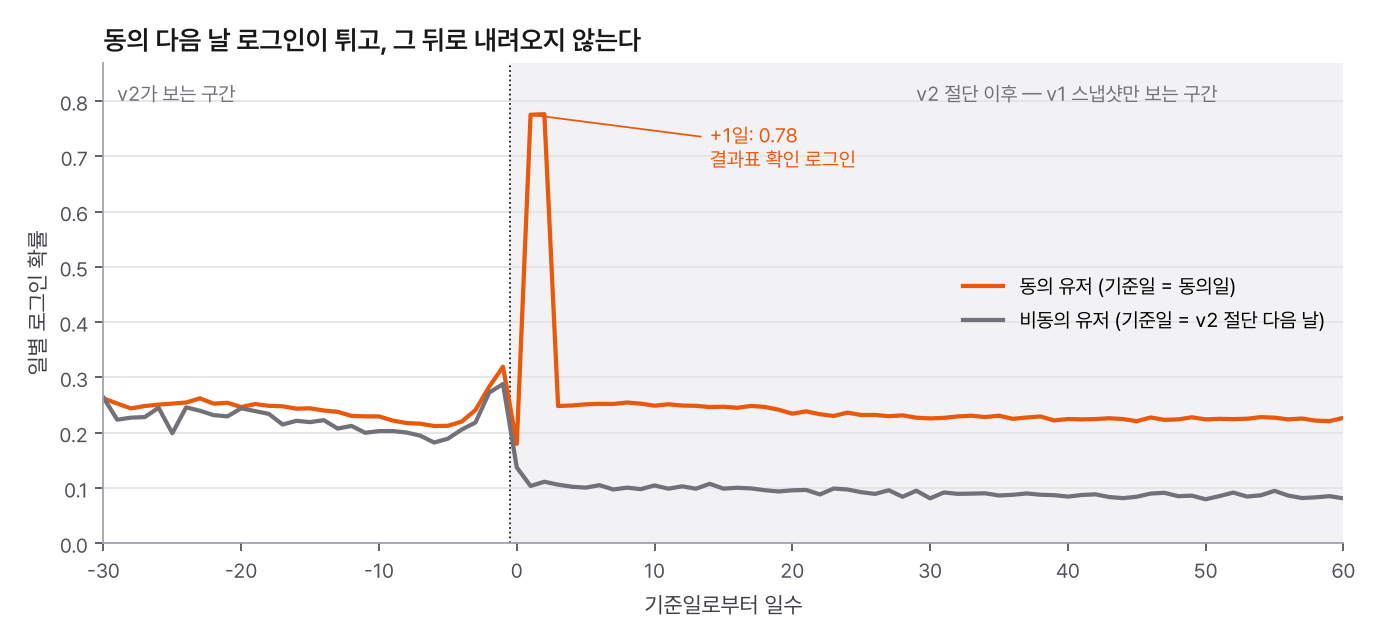
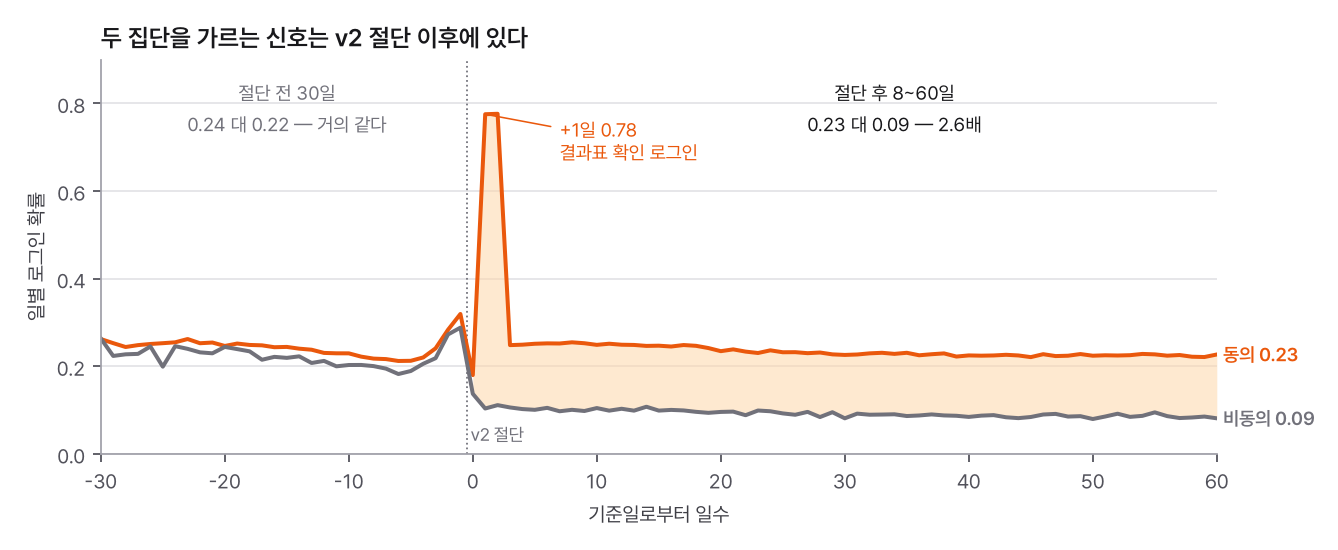
loyal-user-prediction-jobplatform: 5호 그림 fig7·fig10 수정

diff --git a/loyal-user-prediction-jobplatform/notebooks/10_site_figures_2.py b/loyal-user-prediction-jobplatform/notebooks/10_site_figures_2.py
@@ -16,7 +16,7 @@ from matplotlib.patches import Patch
 
 sys.path.insert(0, str(Path(__file__).resolve().parent))
 from common import RES
-from sitestyle import setup, save, BLUE, ORANGE, GRAY, LIGHT, DARK, MUTED
+from sitestyle import setup, save, BLUE, ORANGE, GRAY, LIGHT, LIGHT_ORANGE, DARK, MUTED
 GRAY_LINE = MUTED  # #a1a1aa fails 3:1 on white for thin lines; bars keep GRAY
 
 setup()
@@ -24,23 +24,34 @@ summary = pd.read_csv(RES / "leakage_anatomy_summary.csv").set_index("metric")["
 
 # ---------------------------------------------------------------- fig7 login rate around the anchor
 ev = pd.read_csv(RES / "login_around_consent.csv")
-fig, ax = plt.subplots(figsize=(10, 3.9))
-ax.axvspan(-0.5, ev["rel_day"].max(), color=LIGHT, alpha=0.45, lw=0)
-ax.axvline(-0.5, color=DARK, lw=0.8, ls=":")
-ax.plot(ev["rel_day"], ev["consented_rate"], color=ORANGE, lw=1.9, label="동의 유저 (기준일 = 동의일)")
-ax.plot(ev["rel_day"], ev["not_consented_rate"], color=GRAY_LINE, lw=1.9, label="비동의 유저 (기준일 = v2 절단 다음 날)")
-top = ev[["consented_rate", "not_consented_rate"]].values.max()
-d1 = float(ev.loc[ev["rel_day"] == 1, "consented_rate"].iloc[0])
-ax.annotate(f"+1일: {d1:.2f}\n결과표 확인 로그인", xy=(1, d1), xytext=(14, d1 * 0.98), fontsize=9, color=ORANGE,
-            va="top", arrowprops=dict(arrowstyle="-", color=ORANGE, lw=0.8))
-ax.text(-29, top * 1.02, "v2가 보는 구간", color=MUTED, fontsize=9, va="bottom")
-ax.text(29, top * 1.02, "v2 절단 이후 — v1 스냅샷만 보는 구간", color=MUTED, fontsize=9, va="bottom", ha="left")
+x, yc, yn = ev["rel_day"].to_numpy(), ev["consented_rate"].to_numpy(), ev["not_consented_rate"].to_numpy()
+d1 = float(summary["consented: login rate on day +1"])
+pre_c = float(summary["consented: mean daily login rate, day -30..-1"])
+pre_n = float(summary["not_consented: mean daily login rate, day -30..-1"])
+post_c = float(summary["consented: mean daily login rate, day +8..+60"])
+post_n = float(summary["not_consented: mean daily login rate, day +8..+60"])
+ratio = float(summary["ratio consented / not_consented: mean daily login rate, day +8..+60"])
+fig, ax = plt.subplots(figsize=(9, 3.2))
+ax.axvline(-0.5, color=MUTED, lw=0.8, ls=":")
+post = x >= 0
+ax.fill_between(x[post], yn[post], yc[post], color=LIGHT_ORANGE, alpha=0.55, lw=0)  # 절단 이후 두 집단의 격차
+ax.plot(x, yc, color=ORANGE, lw=1.8)
+ax.plot(x, yn, color=GRAY_LINE, lw=1.8)
+ax.annotate(f"+1일 {d1:.2f}\n결과표 확인 로그인", xy=(1, d1), xytext=(7, d1 - 0.01), fontsize=8.5,
+            color=ORANGE, va="top", arrowprops=dict(arrowstyle="-", color=ORANGE, lw=0.7))
+ax.text(-15, 0.86, f"절단 전 30일\n{pre_c:.2f} 대 {pre_n:.2f} — 거의 같다", color=MUTED, fontsize=8.5,
+        ha="center", va="top", linespacing=1.4)
+ax.text(34, 0.86, f"절단 후 8~60일\n{post_c:.2f} 대 {post_n:.2f} — {ratio:.1f}배", color=DARK,
+        fontsize=8.5, ha="center", va="top", linespacing=1.4)
+ax.text(60.5, yc[-1], f"동의 {post_c:.2f}", color=ORANGE, fontsize=8.5, va="center", fontweight="semibold")
+ax.text(60.5, yn[-1], f"비동의 {post_n:.2f}", color=GRAY_LINE, fontsize=8.5, va="center", fontweight="semibold")
+ax.text(-0.5, 0.02, " v2 절단 ", color=MUTED, fontsize=8, ha="left", va="bottom")
 ax.set_xlim(-30, 60)
-ax.set_ylim(0, top * 1.12)
-ax.set_xlabel("기준일로부터 일수")
-ax.set_ylabel("일별 로그인 확률")
-ax.set_title("동의 다음 날 로그인이 튀고, 그 뒤로 내려오지 않는다")
-ax.legend(loc="center right")
+ax.set_ylim(0, 0.9)
+ax.set_yticks([0, 0.2, 0.4, 0.6, 0.8])
+ax.set_xlabel("기준일로부터 일수", fontsize=9)
+ax.set_ylabel("일별 로그인 확률", fontsize=9)
+ax.set_title("두 집단을 가르는 신호는 v2 절단 이후에 있다", fontsize=11)
 ax.grid(axis="y")
 save(fig, "fig7_login_around_consent")
 
@@ -111,21 +122,36 @@ save(fig, "fig9_timeline_sample")
 # ---------------------------------------------------------------- fig10 ROC
 roc = pd.read_csv(RES / "roc_curves.csv")
 auc = pd.read_csv(RES / "oof_auc_vs_oracle.csv").set_index("model")["AUC"]
-fig, ax = plt.subplots(figsize=(5.6, 5.4))
+SERIES = [("v1 snapshot", GRAY_LINE, "-", "v1 스냅샷"),
+          ("v2 time cut", BLUE, "-", "v2 시간 절단"),
+          ("oracle (true propensity)", ORANGE, "--", "심어둔 정답 확률")]
+fig = plt.figure(figsize=(9, 3.9))  # 정사각 ROC를 왼쪽에, 범례·결론을 오른쪽에 — 본문 폭에서 높이를 억제
+ax = fig.add_axes([0.07, 0.14, 0.42, 0.76])
 ax.plot([0, 1], [0, 1], color=LIGHT, lw=1)
-for label, c, ls, kor in [("v1 snapshot", GRAY_LINE, "-", "v1 스냅샷"),
-                          ("v2 time cut", BLUE, "-", "v2 시간 절단"),
-                          ("oracle (true propensity)", ORANGE, "--", "심어둔 정답 확률")]:
+for label, c, ls, kor in SERIES:
     d = roc[roc["model"] == label]
-    ax.plot(d["fpr"], d["tpr"], color=c, ls=ls, lw=1.9, label=f"{kor}   AUC {auc[label]:.3f}")
+    ax.plot(d["fpr"], d["tpr"], color=c, ls=ls, lw=1.9)
 ax.set_xlim(0, 1)
 ax.set_ylim(0, 1)
 ax.set_aspect("equal")
 ax.set_xlabel("위양성률 (FPR)")
 ax.set_ylabel("재현율 (TPR)")
 ax.set_title("ROC — v1은 정답보다 위에 있다")
-ax.legend(loc="lower right")
 ax.grid()
+tx = fig.add_axes([0.56, 0.14, 0.42, 0.76])
+tx.axis("off")
+y = 0.92
+for label, c, ls, kor in SERIES:
+    tx.plot([0.0, 0.09], [y, y], color=c, ls=ls, lw=2.2, transform=tx.transAxes, clip_on=False)
+    tx.text(0.13, y, kor, fontsize=10.5, color=DARK, va="center", transform=tx.transAxes)
+    tx.text(0.98, y, f"AUC {auc[label]:.3f}", fontsize=10.5, color=c, va="center", ha="right",
+            fontweight="semibold", transform=tx.transAxes)
+    y -= 0.16
+tx.plot([0, 1], [y + 0.06, y + 0.06], color=LIGHT, lw=1, transform=tx.transAxes, clip_on=False)
+tx.text(0, y - 0.05, "정답 확률로 그린 곡선(주황 점선)이 모델이 닿을 수 있는 상한이다.\n"
+                     "v2는 그 바로 아래에 붙어 있고, v1은 전 구간에서 그 위에 있다.\n"
+                     "정답보다 잘 맞히는 모델은 정답 이후의 정보를 쓰고 있다.",
+        fontsize=9.5, color="#3f3f46", va="top", linespacing=1.7, transform=tx.transAxes)
 save(fig, "fig10_roc_curves")
 
 # ---------------------------------------------------------------- fig11 score deciles
